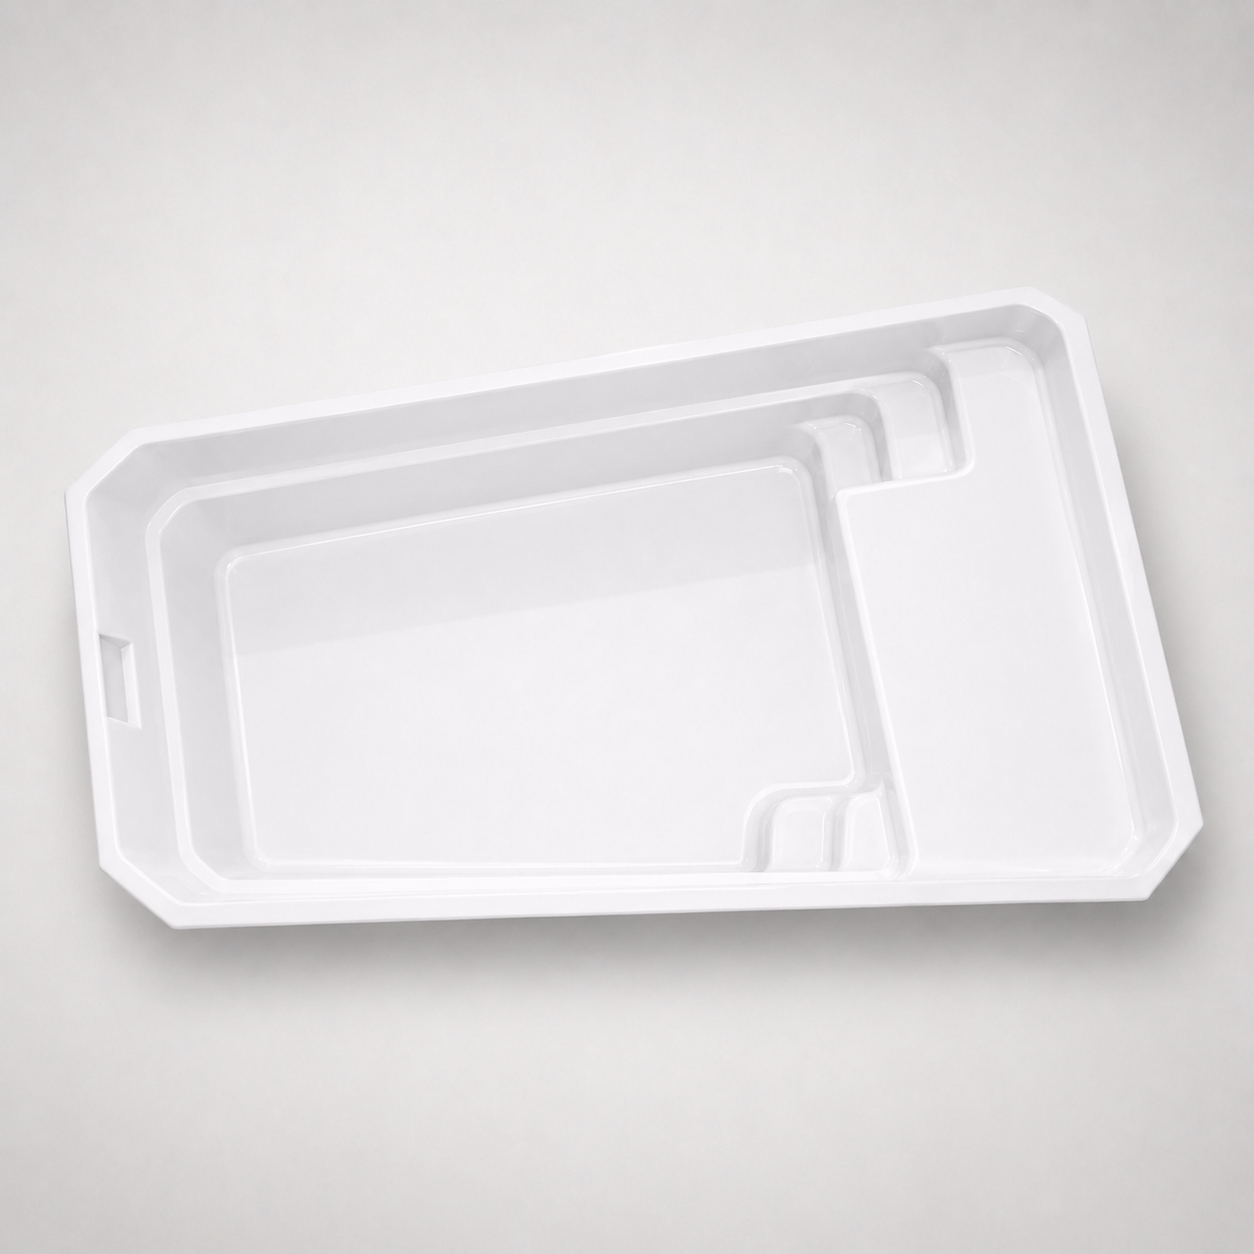
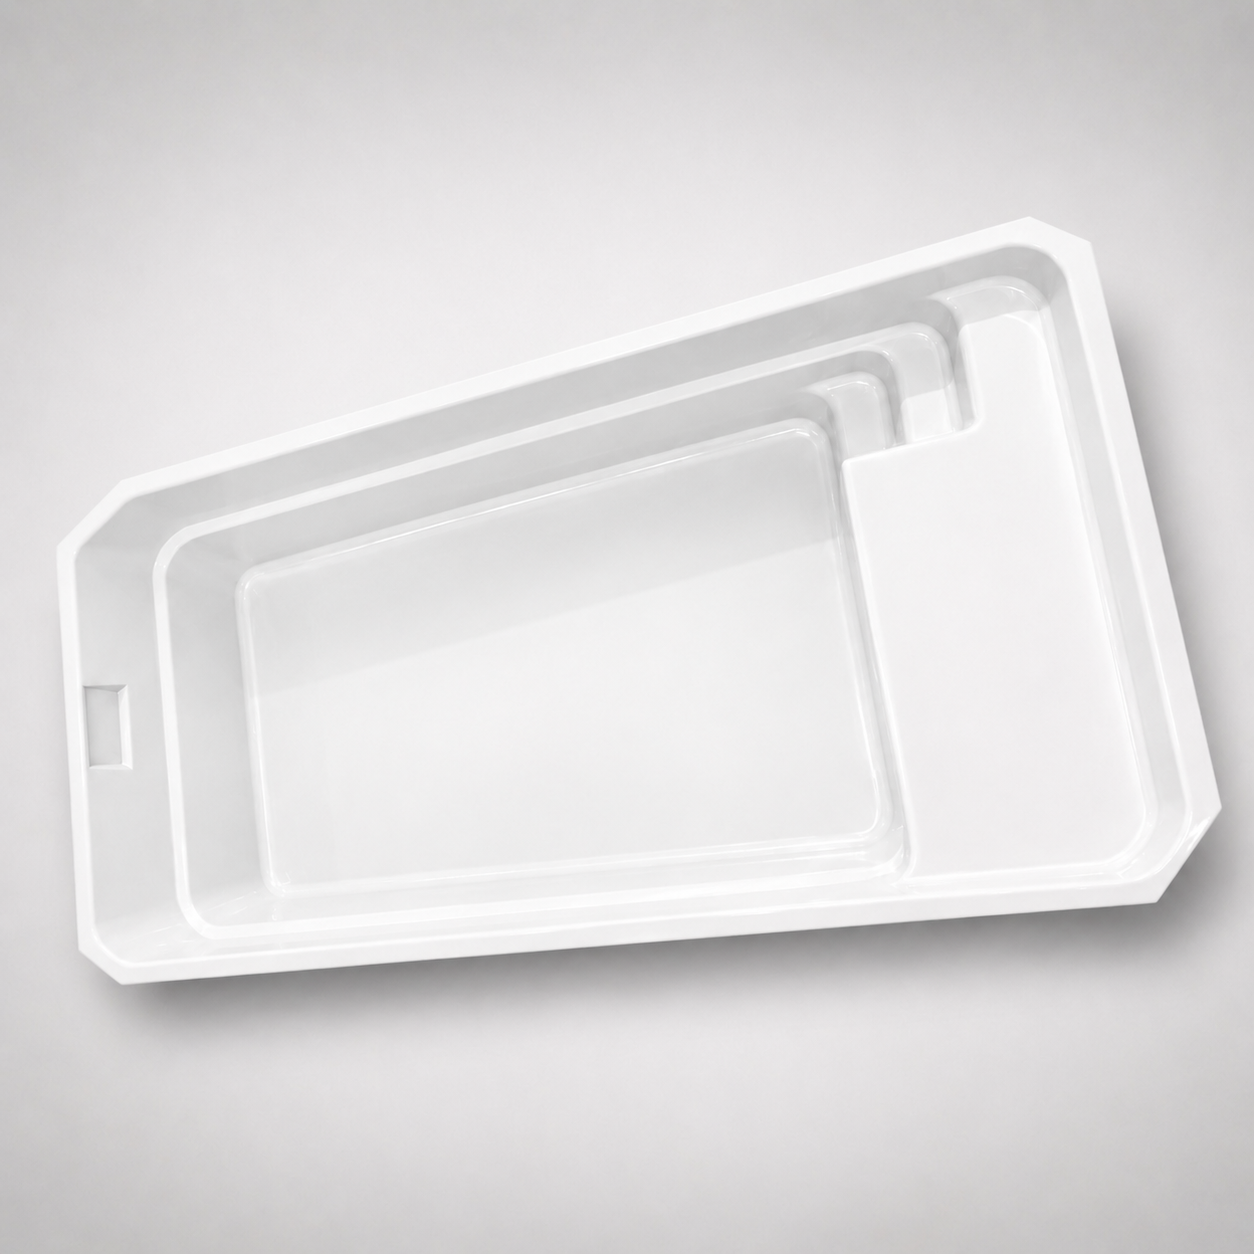
chore: update Space Laze catalog images

Changed region(s): [[0.0311, 0.1866, 0.9952, 0.8397], [0.1555, 0.4665, 0.2177, 0.6842], [0.6842, 0.4665, 0.7153, 0.4976]]

diff --git a/data/products.ts b/data/products.ts
@@ -30,7 +30,7 @@ export const PRODUCT_FILTERS: ProductFilter[] = [
 ];
 
 const modelImagePath = "/images/fotos-piscinas/Modelos";
-const modelImageVersion = "v=8";
+const modelImageVersion = "v=9";
 
 export const POOL_COLOR_OPTIONS = [
   {
